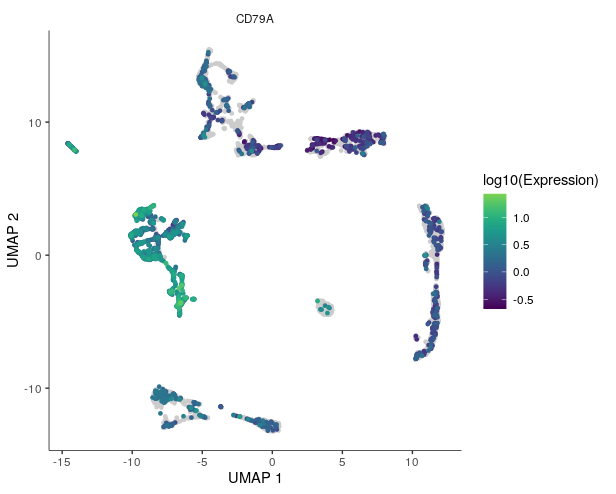
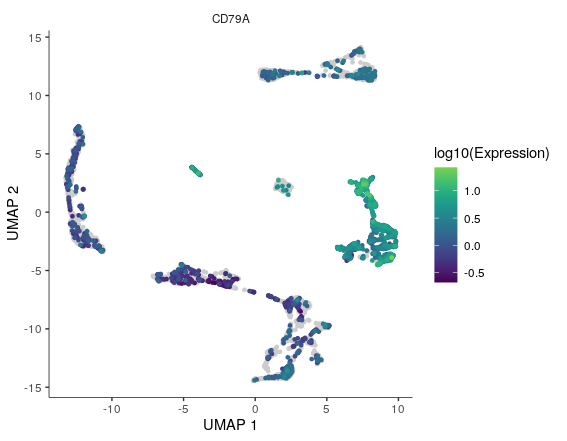
Deployed b11bda5 to 2022.2 with MkDocs 1.2.2 and mike 1.1.0

diff --git a/2022.2/day3/trajectory_analysis/index.html b/2022.2/day3/trajectory_analysis/index.html
@@ -941,6 +941,10 @@ major set of parameters we omitted here when running Slingshot?</p>
            <span class="n">label_branch_points</span><span class="o">=</span><span class="kc">FALSE</span><span class="p">,</span>
            <span class="n">graph_label_size</span><span class="o">=</span><span class="m">1.5</span><span class="p">,</span> <span class="n">cell_size</span> <span class="o">=</span> <span class="m">1</span><span class="p">)</span>
 </code></pre></div>
+<figure>
+  <img src="../../assets/images/umap_monocle_pseudotime.png" width="500"/>
+</figure>
+
 <p>In order to find genes which expression is affected by pseudtime, we first have to isolate the B-cell cluster. Therefore, extract all cells in the B-cell cluster with the interactive <code>choose_cells</code> function:</p>
 <div class="highlight"><pre><span></span><code><span class="n">seuB</span> <span class="o">&lt;-</span> <span class="nf">choose_cells</span><span class="p">(</span><span class="n">seu_int_monocl</span><span class="p">)</span>
 </code></pre></div>
@@ -966,6 +970,10 @@ major set of parameters we omitted here when running Slingshot?</p>
 <span class="nf">plot_cells</span><span class="p">(</span><span class="n">seuB</span><span class="p">,</span> <span class="n">label_cell_groups</span><span class="o">=</span><span class="kc">FALSE</span><span class="p">,</span> <span class="n">genes</span> <span class="o">=</span> <span class="n">goi</span><span class="p">,</span>
            <span class="n">show_trajectory_graph</span><span class="o">=</span><span class="kc">FALSE</span><span class="p">,</span> <span class="n">cell_size</span> <span class="o">=</span> <span class="m">1</span><span class="p">)</span>
 </code></pre></div>
+<figure>
+  <img src="../../assets/images/umaps_bcells_goi.png" width="500"/>
+</figure>
+
 <p>But also against pseudotime:</p>
 <div class="highlight"><pre><span></span><code><span class="n">seuB</span><span class="o">@</span><span class="n">colData</span><span class="o">$</span><span class="n">monocle_cluster</span> <span class="o">&lt;-</span> <span class="nf">clusters</span><span class="p">(</span><span class="n">seuB</span><span class="p">)</span>
 
